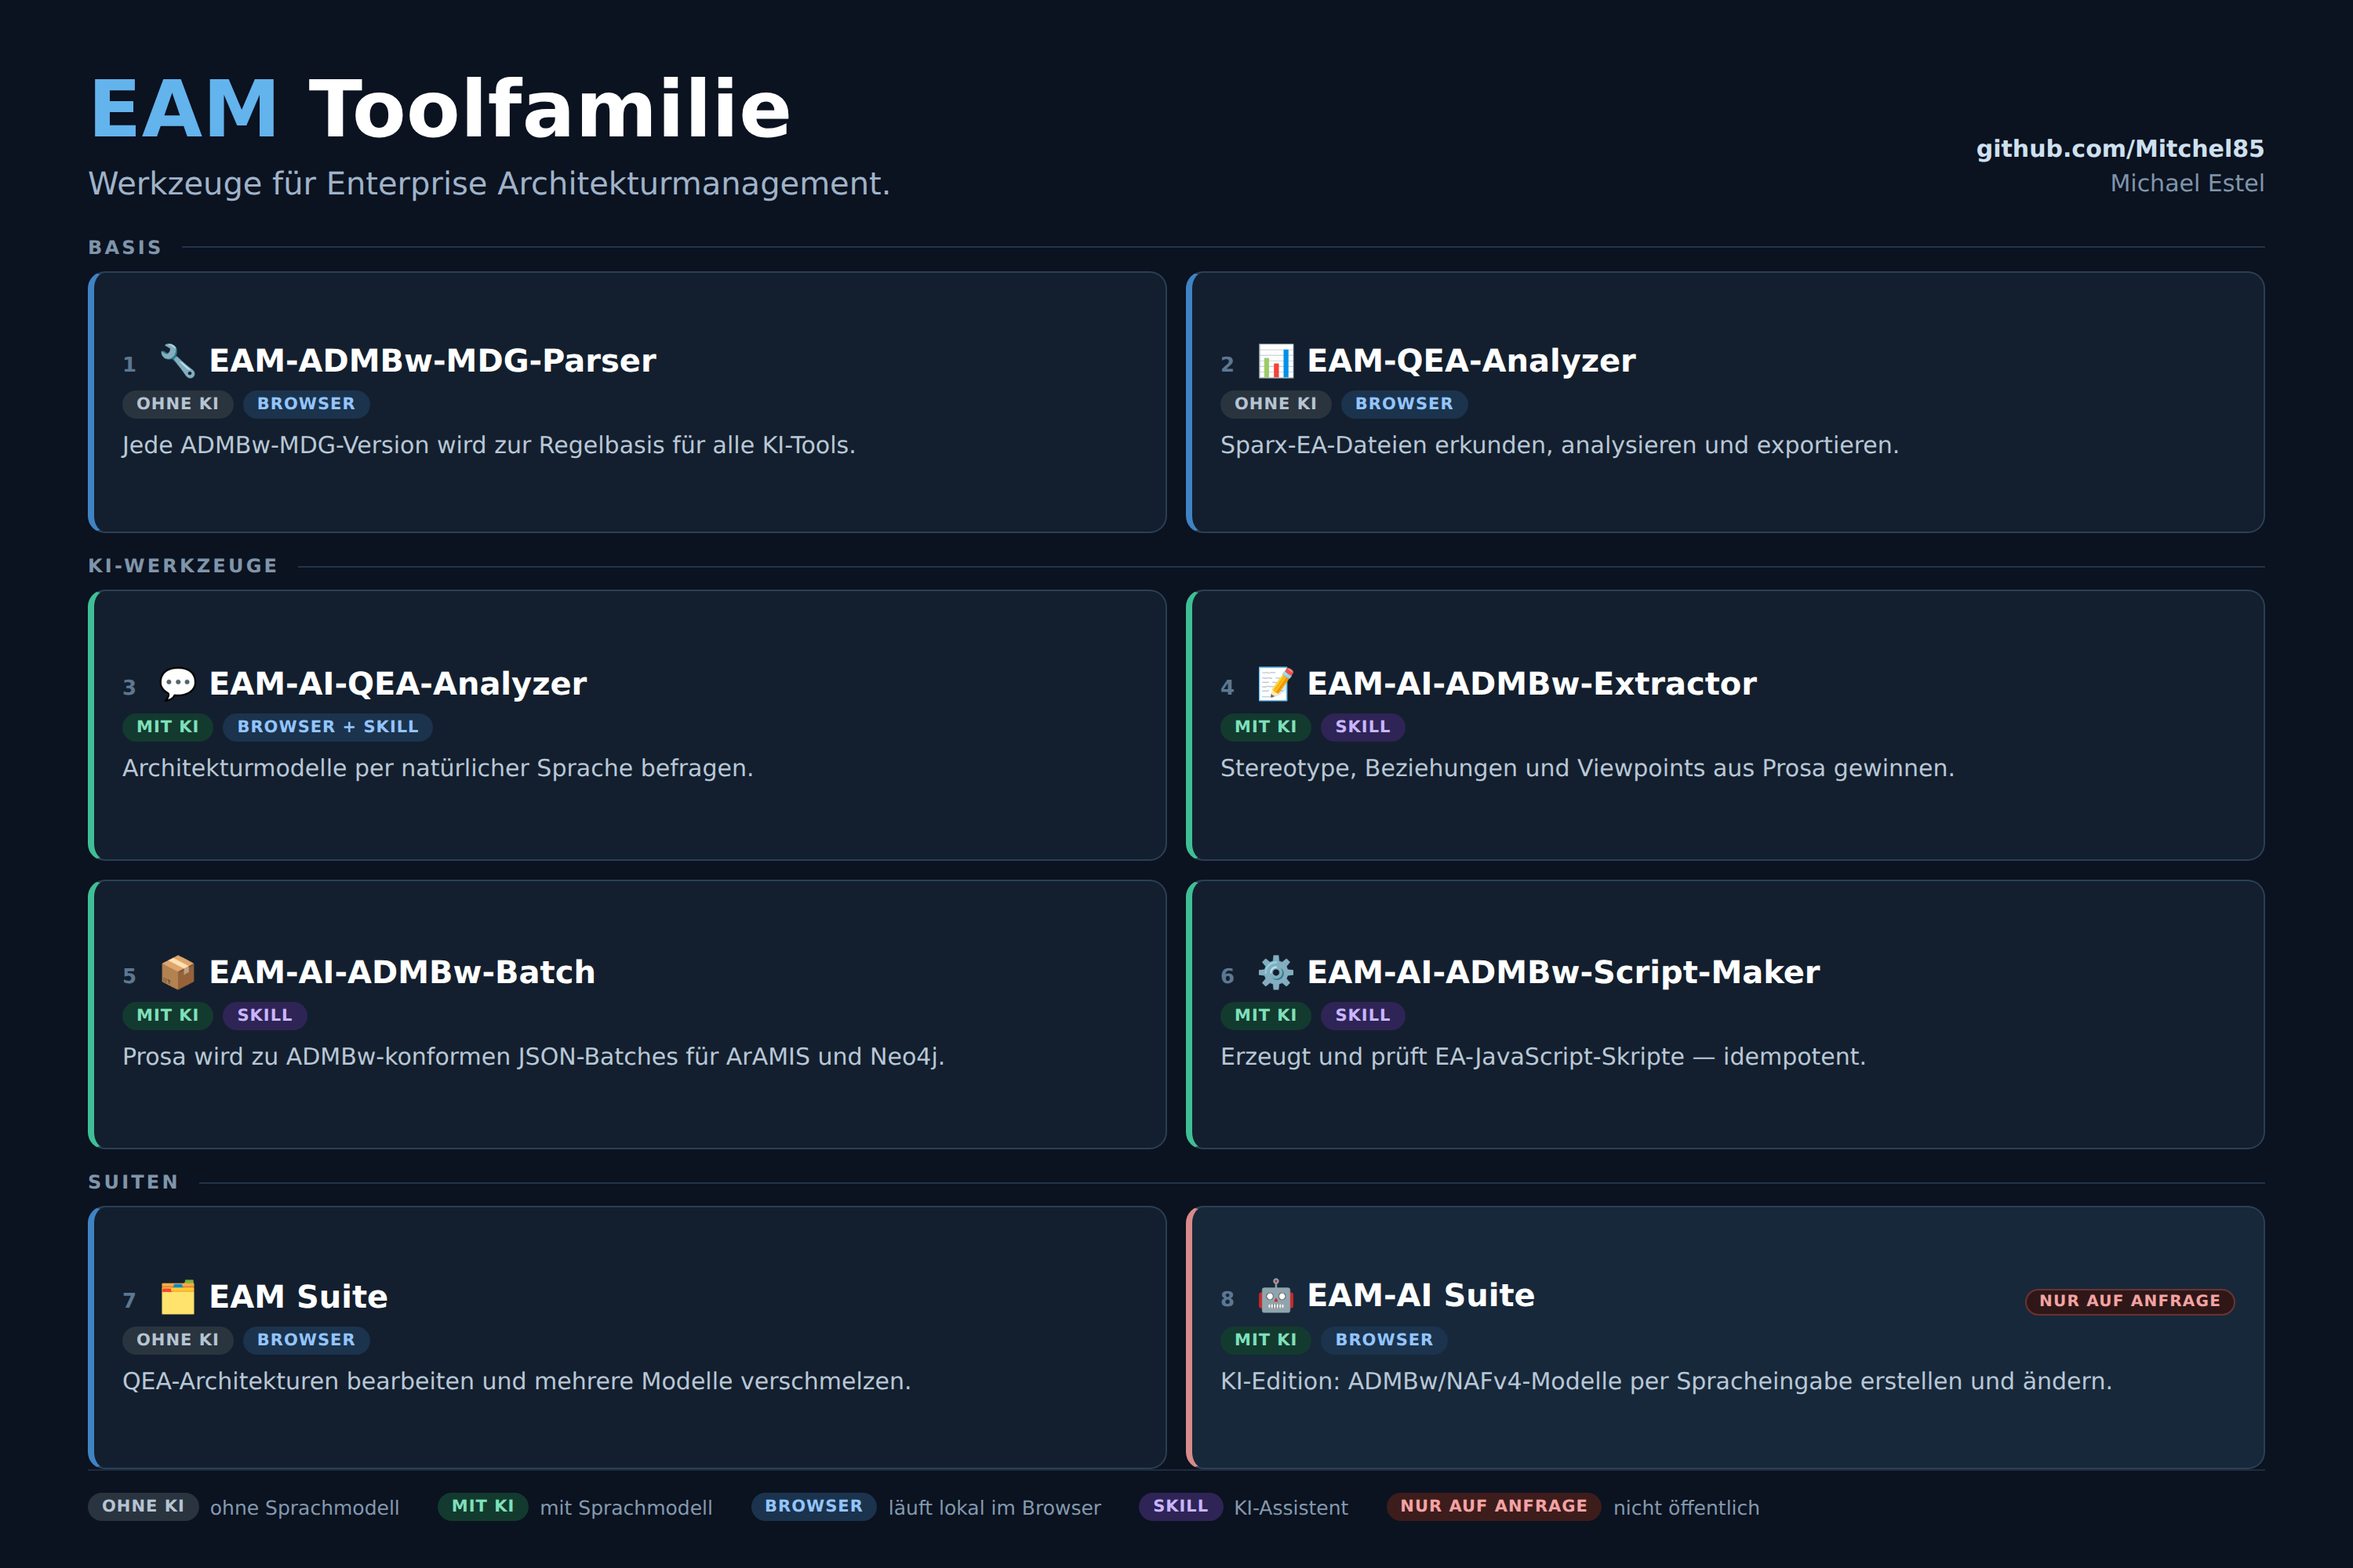
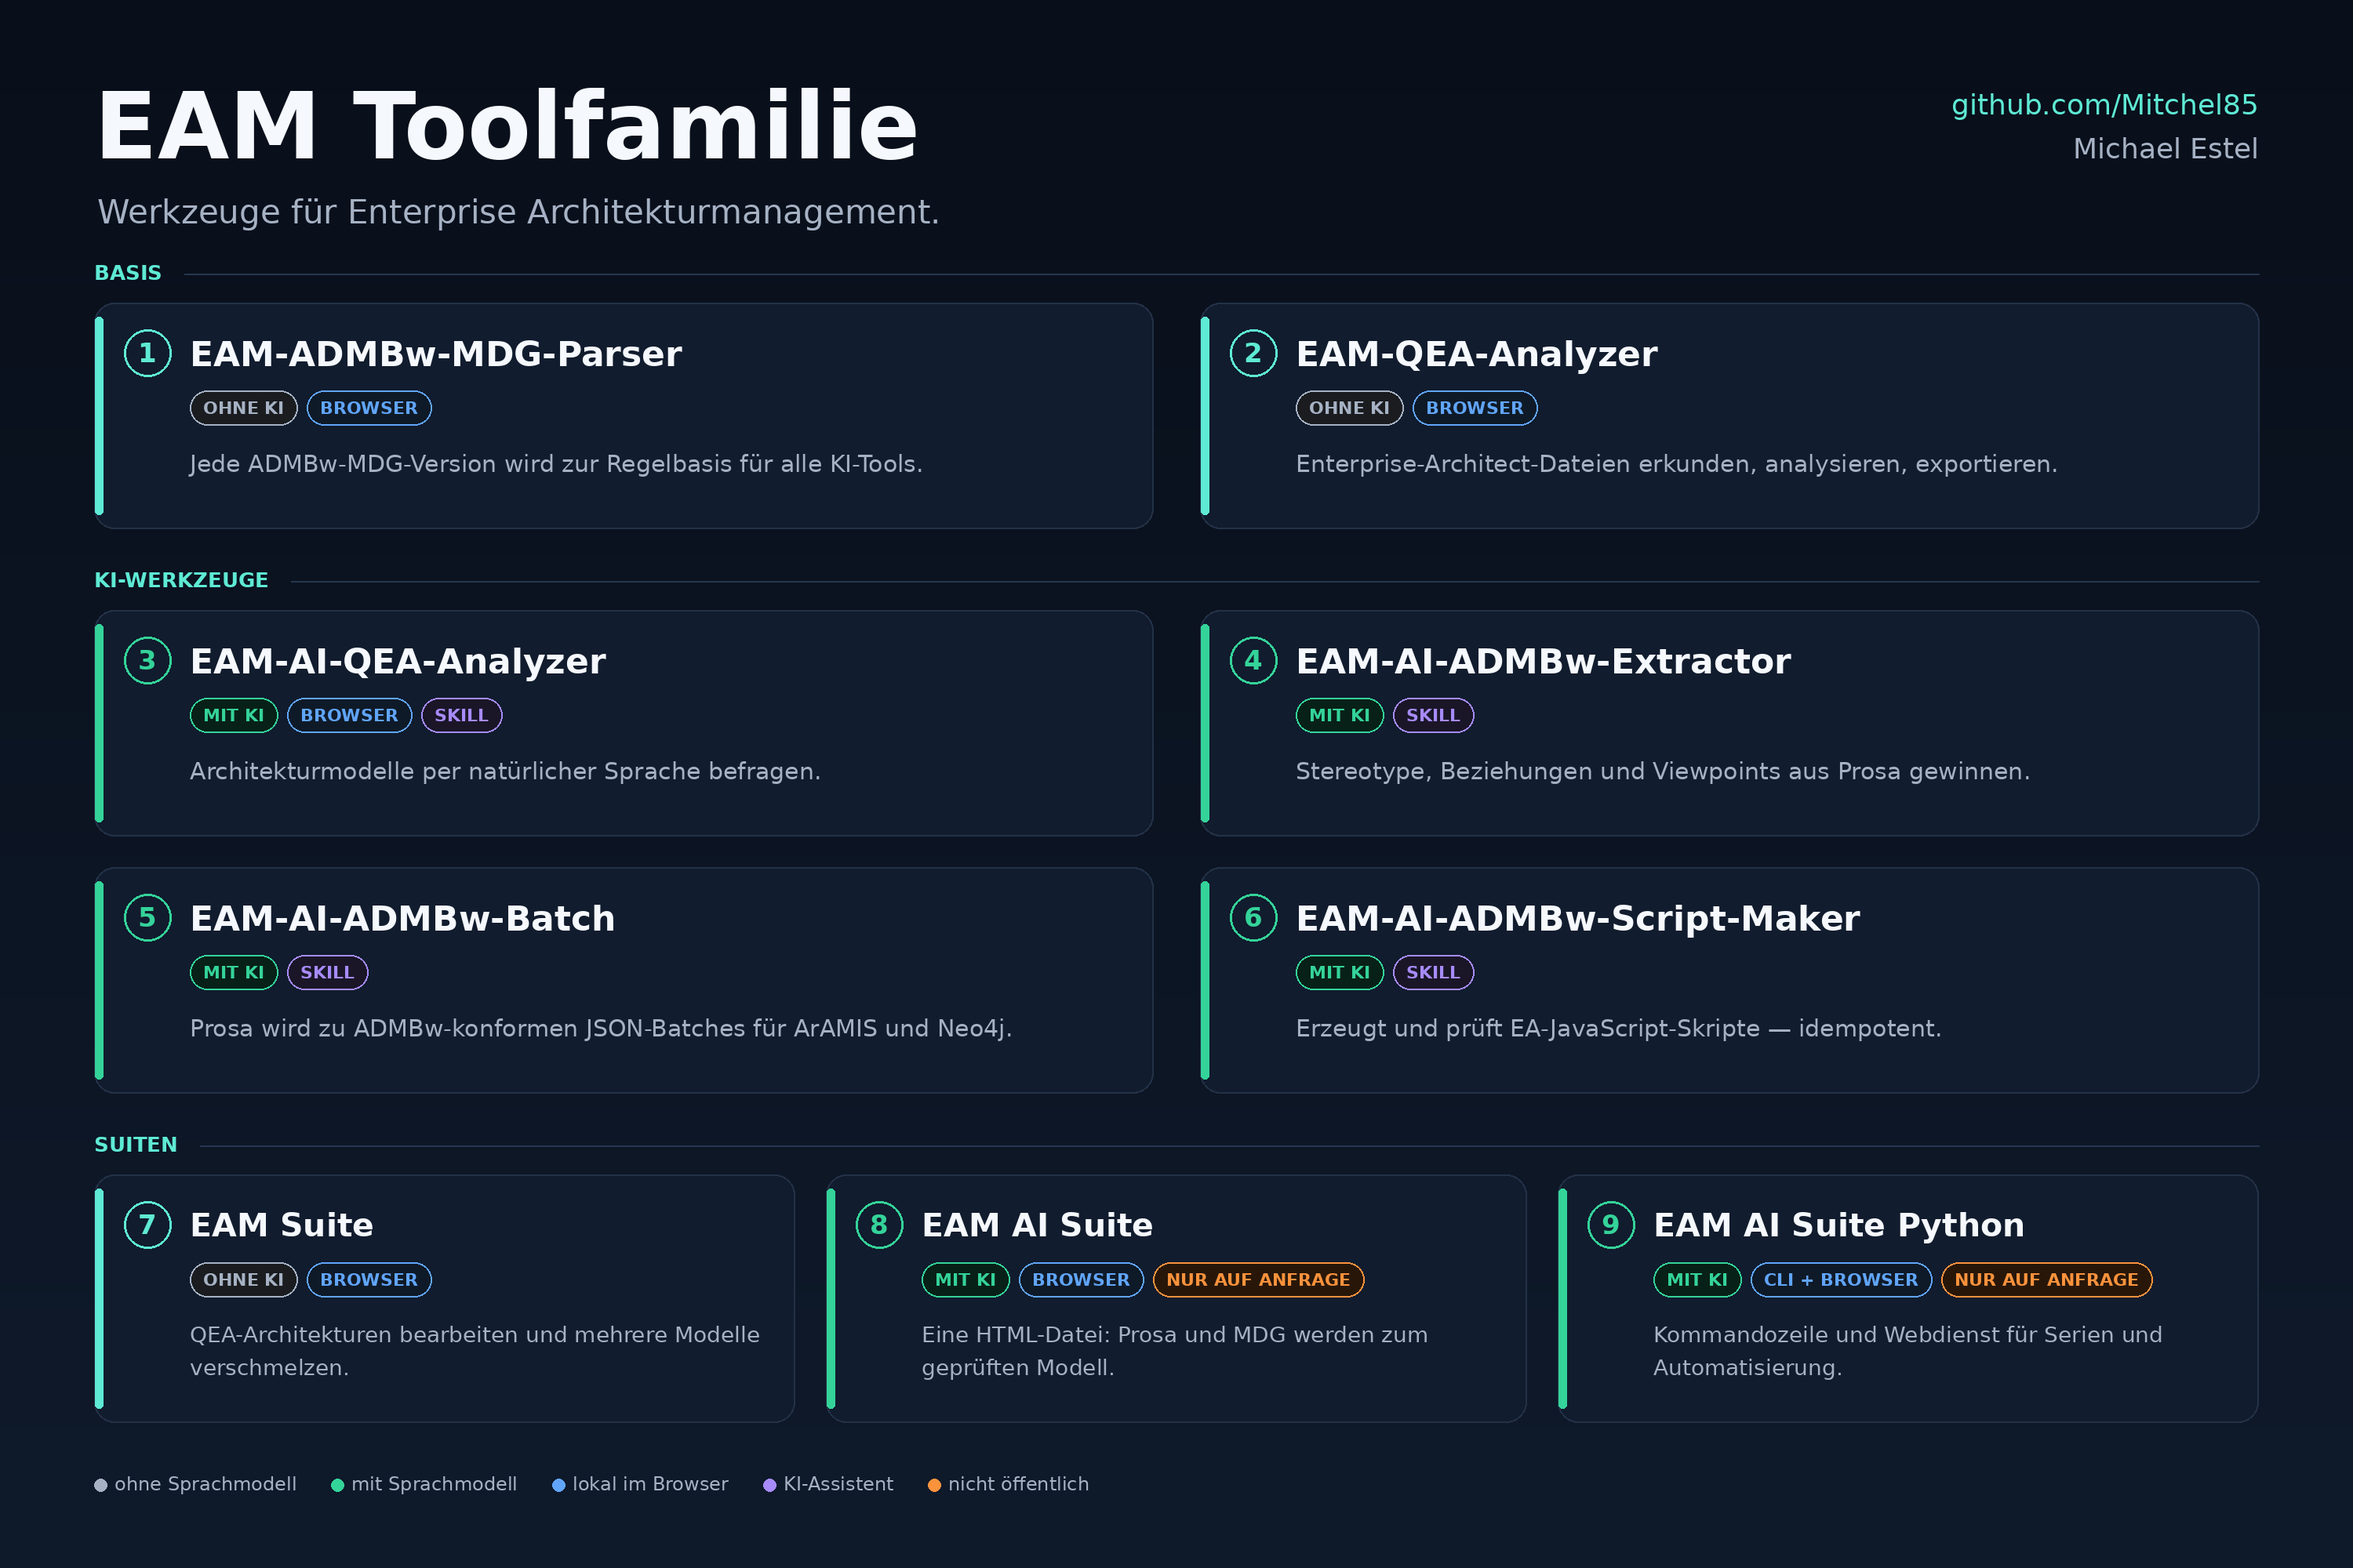
Toolfamilie: EAM AI Suite und EAM AI Suite Python ergänzt

diff --git a/README.md b/README.md
@@ -2,26 +2,29 @@
 [![CI](https://github.com/Mitchel85/EAM-Suite/actions/workflows/ci.yml/badge.svg)](https://github.com/Mitchel85/EAM-Suite/actions/workflows/ci.yml)
 <p align="center">
   <a href="https://raw.githubusercontent.com/Mitchel85/Mitchel85/main/assets/toolfamilie-uebersicht.png" title="Übersichtsbild in voller Auflösung öffnen">
-    <img src="assets/toolfamilie-uebersicht.png" alt="Übersicht der EAM-Toolfamilie in drei Gruppen: Basis (1 EAM-ADMBw-MDG-Parser, 2 EAM-QEA-Analyzer), KI-Werkzeuge (3 EAM-AI-QEA-Analyzer, 4 EAM-AI-ADMBw-Extractor, 5 EAM-AI-ADMBw-Batch, 6 EAM-AI-ADMBw-Script-Maker) und Suiten (7 EAM Suite, 8 EAM-AI Suite, nur auf Anfrage). Die Tabelle darunter folgt derselben Gruppierung." width="900">
+    <img src="assets/toolfamilie-uebersicht.png" alt="Übersicht der EAM-Toolfamilie in drei Gruppen: Basis (1 EAM-ADMBw-MDG-Parser, 2 EAM-QEA-Analyzer), KI-Werkzeuge (3 EAM-AI-QEA-Analyzer, 4 EAM-AI-ADMBw-Extractor, 5 EAM-AI-ADMBw-Batch, 6 EAM-AI-ADMBw-Script-Maker) und Suiten (7 EAM Suite, 8 EAM AI Suite, 9 EAM AI Suite Python; die beiden KI-Suiten nur auf Anfrage)." width="900">
   </a>
 </p>
+
+Neun Werkzeuge, eine Regelbasis: von der MDG-Auswertung über die KI-Extraktion bis zu den beiden Suiten für Prosa, Modelle und Automatisierung.
 
 | Tool | Was es kann | Online ausprobieren | GitHub |
 |---|---|---|---|
 | <br>**Basis** – Regelbasis und Analyse | | | |
 | 1 · 🔧 **EAM-ADMBw-MDG-Parser** | Extrahiert die Regeln aus der offiziellen ADMBw-MDG — hält die Wissensbasis aller KI-Tools bei jedem Update aktuell | [mitchel85.github.io/EAM-ADMBw-MDG-Parser](https://mitchel85.github.io/EAM-ADMBw-MDG-Parser/) | [Repository](https://github.com/Mitchel85/EAM-ADMBw-MDG-Parser) |
-| 2 · 📊 **EAM-QEA-Analyzer** | Analyse von `.qea`-Dateien (Sparx Systems Enterprise Architect) im Browser: Explorer, ADMBw/NAFv4-Farb-Graph, Pfadanalyse, PNG-/Excel-Export | [mitchel85.github.io/EAM-QEA-Analyzer](https://mitchel85.github.io/EAM-QEA-Analyzer/) | [Repository](https://github.com/Mitchel85/EAM-QEA-Analyzer) |
-| <br>**KI-Werkzeuge** – Sprachmodellgestützte Auswertung | | | |
+| 2 · 📊 **EAM-QEA-Analyzer** | Analyse von `.qea`-Dateien (Enterprise Architect) im Browser: Explorer, ADMBw/NAFv4-Farb-Graph, Pfadanalyse, PNG-/Excel-Export | [mitchel85.github.io/EAM-QEA-Analyzer](https://mitchel85.github.io/EAM-QEA-Analyzer/) | [Repository](https://github.com/Mitchel85/EAM-QEA-Analyzer) |
+| <br>**KI-Werkzeuge** – sprachmodellgestützte Auswertung | | | |
 | 3 · 💬 **EAM-AI-QEA-Analyzer** | Architekturmodelle per natürlicher Sprache befragen — lokal, in Open-WebUI oder per MCP; als Skill nutzbar | — | [Repository](https://github.com/Mitchel85/EAM-AI-QEA-Analyzer) |
 | 4 · 📝 **EAM-AI-ADMBw-Extractor** | Extrahiert Stereotype, Beziehungen und Viewpoints aus Architektur-Prosa — konform zu ADMBw/NAFv4 (MDG 2026.05); als Skill nutzbar | — | [Repository](https://github.com/Mitchel85/EAM-AI-ADMBw-Extractor) |
 | 5 · 📦 **EAM-AI-ADMBw-Batch** | Prosa → ADMBw-konforme JSON-Batches (Knoten & Kanten) für ArAMIS WEB / Neo4j; als Skill nutzbar | — | [Repository](https://github.com/Mitchel85/EAM-AI-ADMBw-Batch) |
 | 6 · ⚙ **EAM-AI-ADMBw-Script-Maker** | Generiert und verifiziert EA-JavaScript-Skripte für das Bundeswehr-Profil — idempotent, mit Re-Read-Prüfung; als Hermes-Skill nutzbar | — | [Repository](https://github.com/Mitchel85/EAM-AI-ADMBw-Script-Maker) |
-| <br>**Suiten** – die beiden Gesamtpakete | | | |
+| <br>**Suiten** – die Gesamtpakete | | | |
 | 7 · 🗂 **EAM Suite** | QEA-Architekturen im Browser bearbeiten und mehrere Modelle zu einer Landkarte verschmelzen — ohne KI, ohne Installation | [mitchel85.github.io/EAM-Suite](https://mitchel85.github.io/EAM-Suite/) | [Repository](https://github.com/Mitchel85/EAM-Suite) |
-| 8 · 🤖 **EAM-AI Suite** | KI-Edition der Suite: erstellt und bearbeitet ADMBw/NAFv4-konforme Modelle per Spracheingabe | ⚠ **nur auf Anfrage** | ⚠ **nur auf Anfrage** |
+| 8 · 🤖 **EAM AI Suite** | Eine HTML-Datei: Prosa und MDG werden zum geprüften Modell — bearbeiten, prüfen, visualisieren direkt im Browser | ⚠ **nur auf Anfrage** | ⚠ **nur auf Anfrage** |
+| 9 · 🐍 **EAM AI Suite Python** | Kommandozeile und Webdienst für Serien und Automatisierung: MDG, Startpaket, Reparatur, Viewer und Prosa-Rückweg | ⚠ **nur auf Anfrage** | ⚠ **nur auf Anfrage** |
 
-<sub>Sparx Systems und Enterprise Architect sind Marken oder eingetragene Marken der Sparx Systems Pty Ltd. Alle genannten Werkzeuge sind unabhängige Drittanbieter-Produkte und stehen in keiner Verbindung zu Sparx Systems.</sub>
+<sub>Enterprise Architect und Sparx Systems sind Marken oder eingetragene Marken der Sparx Systems Pty Ltd. Alle genannten Werkzeuge sind unabhängige Drittanbieter-Produkte und stehen in keiner Verbindung zu Sparx Systems. Stand: Oktober 2026.</sub>
 
 ---
 
-Interesse an der **KI-Edition (EAM-AI Suite)**? Einfach melden.
+Interesse an **EAM AI Suite** oder **EAM AI Suite Python**? Beide Suiten sind nicht öffentlich — einfach melden.
